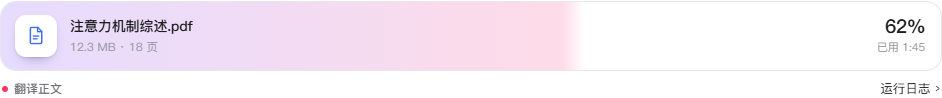
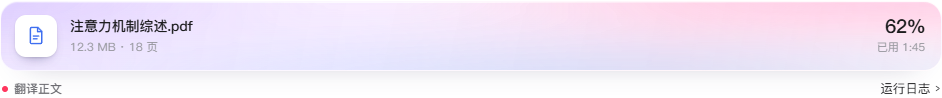
fix(progress): 进度卡片改为毛玻璃动态渐变背景，不再用填充表示进度
参考图里的卡片底色是缓慢流动的毛玻璃渐变，与进度无关；上一版做成了随进度
从左往右填充的色块。

- 移除 `.job-fill` 的宽度动画与 indeterminate 逻辑，改为 `.job-glow` 光斑层
- 卡片改用半透明背景 + backdrop-filter 毛玻璃 + 缓慢漂移的径向渐变（22s 循环）
- 进度只由右侧百分比表达；完成 / 失败只改变整卡色调（绿 / 红），与百分比无关
- 背景动画遵循 prefers-reduced-motion；浅色与深色各一套配色
- 同步 README、使用说明、CHANGELOG 与 progress.png 截图；版本号 1.1.0 → 1.1.1
- 无头浏览器校验更新为：毛玻璃层存在、动画在跑、背景宽度与进度无关

Changed region(s): [[0.4618, 0.0, 1.0, 0.7347], [0.2463, 0.0, 0.5541, 0.0306], [0.5849, 0.0, 0.6157, 0.0306]]

diff --git a/web/styles.css b/web/styles.css
@@ -856,44 +856,55 @@ input::placeholder, textarea::placeholder { color: var(--text-3); }
 /* progress -------------------------------------------------------------- */
 .progress-block { margin-bottom: 18px; }
 
-/* The job card: a soft gradient fill grows behind the file row, so progress is
-   readable at a glance without a separate bar. */
+/* The job card is frosted glass over a slowly drifting mesh gradient.  The
+   background says nothing about progress — the percentage on the right does. */
 .job-card {
-  --job-a: #e6dcff;
-  --job-b: #ffdbe7;
+  --job-a: rgba(178, 150, 255, 0.68);
+  --job-b: rgba(255, 148, 195, 0.62);
+  --job-c: rgba(150, 200, 255, 0.5);
   position: relative;
   display: grid;
   grid-template-columns: 42px minmax(0, 1fr) auto;
   align-items: center;
   gap: 13px;
   padding: 13px 16px 13px 14px;
-  border-radius: 16px;
-  border: 1px solid var(--line);
-  background: var(--card);
+  border-radius: 18px;
+  border: 1px solid rgba(255, 255, 255, 0.62);
+  background: linear-gradient(
+    102deg,
+    rgba(238, 228, 255, 0.9) 0%,
+    rgba(247, 233, 255, 0.86) 38%,
+    rgba(255, 228, 240, 0.88) 72%,
+    rgba(255, 244, 248, 0.92) 100%
+  );
+  -webkit-backdrop-filter: blur(20px) saturate(1.7);
+  backdrop-filter: blur(20px) saturate(1.7);
+  box-shadow: inset 0 1px 0 rgba(255, 255, 255, 0.75), 0 12px 30px -26px rgba(38, 28, 78, 0.55);
   overflow: hidden;
   isolation: isolate;
 }
 
-.job-fill {
+.job-glow {
   position: absolute;
-  top: 0;
-  bottom: 0;
-  left: 0;
-  width: 0%;
+  inset: -55%;
   z-index: -1;
-  background: linear-gradient(90deg, var(--job-a), var(--job-b));
-  /* a soft leading edge, so the fill reads as a gradient rather than a block */
-  -webkit-mask-image: linear-gradient(90deg, #000 0 calc(100% - 22px), transparent 100%);
-  mask-image: linear-gradient(90deg, #000 0 calc(100% - 22px), transparent 100%);
-  transition: width 0.55s cubic-bezier(0.2, 0.7, 0.2, 1), background 0.3s ease;
+  background:
+    radial-gradient(38% 44% at 18% 26%, var(--job-a), transparent 70%),
+    radial-gradient(36% 40% at 74% 22%, var(--job-b), transparent 70%),
+    radial-gradient(44% 48% at 58% 84%, var(--job-c), transparent 72%);
+  filter: blur(24px) saturate(1.2);
+  animation: job-drift 22s ease-in-out infinite alternate;
+  will-change: transform;
 }
-.job-fill.indeterminate {
-  width: 35%;
-  animation: slide 1.4s ease-in-out infinite;
+
+@keyframes job-drift {
+  0% { transform: translate3d(-2%, -1%, 0) scale(1); }
+  50% { transform: translate3d(2%, 2%, 0) scale(1.06); }
+  100% { transform: translate3d(-1%, 2%, 0) scale(1.02); }
 }
-@keyframes slide {
-  0% { transform: translateX(-120%); }
-  100% { transform: translateX(330%); }
+
+@media (prefers-reduced-motion: reduce) {
+  .job-glow { animation: none; }
 }
 
 .job-icon {
@@ -948,40 +959,63 @@ input::placeholder, textarea::placeholder { color: var(--text-3); }
   white-space: nowrap;
 }
 
-.job-card[data-state="done"] .job-fill {
-  background: linear-gradient(90deg, #cdf0dd, #d9f6e8);
+/* The tint follows the job state, not its progress. */
+.job-card[data-state="done"] {
+  --job-a: rgba(150, 235, 190, 0.55);
+  --job-b: rgba(190, 245, 215, 0.5);
+  --job-c: rgba(120, 220, 175, 0.4);
 }
-.job-card[data-state="failed"] .job-fill {
-  background: linear-gradient(90deg, #ffd9d9, #ffc9d1);
+.job-card[data-state="failed"] {
+  --job-a: rgba(255, 170, 170, 0.55);
+  --job-b: rgba(255, 150, 175, 0.5);
+  --job-c: rgba(255, 190, 190, 0.45);
 }
-.job-card[data-state="cancelled"] .job-fill {
-  background: linear-gradient(90deg, var(--line), var(--line));
+.job-card[data-state="cancelled"] {
+  --job-a: rgba(205, 205, 215, 0.45);
+  --job-b: rgba(220, 220, 228, 0.4);
+  --job-c: rgba(200, 200, 210, 0.35);
 }
 
 @media (prefers-color-scheme: dark) {
   :root:not([data-theme="light"]) .job-card {
-    --job-a: rgba(126, 104, 255, 0.3);
-    --job-b: rgba(255, 105, 150, 0.22);
+    --job-a: rgba(132, 108, 255, 0.46);
+    --job-b: rgba(255, 108, 155, 0.38);
+    --job-c: rgba(92, 156, 255, 0.34);
+    background: rgba(34, 31, 50, 0.55);
+    border-color: rgba(255, 255, 255, 0.1);
+    box-shadow: inset 0 1px 0 rgba(255, 255, 255, 0.08);
+  }
+  :root:not([data-theme="light"]) .job-card[data-state="done"] {
+    --job-a: rgba(60, 200, 140, 0.34);
+    --job-b: rgba(70, 215, 160, 0.26);
+    --job-c: rgba(50, 180, 130, 0.22);
+  }
+  :root:not([data-theme="light"]) .job-card[data-state="failed"] {
+    --job-a: rgba(255, 90, 90, 0.32);
+    --job-b: rgba(255, 90, 120, 0.26);
+    --job-c: rgba(255, 120, 110, 0.2);
   }
   :root:not([data-theme="light"]) .job-icon { background: #23232c; color: #8ab0ff; }
-  :root:not([data-theme="light"]) .job-card[data-state="done"] .job-fill {
-    background: linear-gradient(90deg, rgba(60, 200, 140, 0.32), rgba(60, 200, 140, 0.2));
-  }
-  :root:not([data-theme="light"]) .job-card[data-state="failed"] .job-fill {
-    background: linear-gradient(90deg, rgba(255, 90, 90, 0.32), rgba(255, 90, 120, 0.22));
-  }
 }
 :root[data-theme="dark"] .job-card {
-  --job-a: rgba(126, 104, 255, 0.3);
-  --job-b: rgba(255, 105, 150, 0.22);
+  --job-a: rgba(132, 108, 255, 0.46);
+  --job-b: rgba(255, 108, 155, 0.38);
+  --job-c: rgba(92, 156, 255, 0.34);
+  background: rgba(34, 31, 50, 0.55);
+  border-color: rgba(255, 255, 255, 0.1);
+  box-shadow: inset 0 1px 0 rgba(255, 255, 255, 0.08);
+}
+:root[data-theme="dark"] .job-card[data-state="done"] {
+  --job-a: rgba(60, 200, 140, 0.34);
+  --job-b: rgba(70, 215, 160, 0.26);
+  --job-c: rgba(50, 180, 130, 0.22);
+}
+:root[data-theme="dark"] .job-card[data-state="failed"] {
+  --job-a: rgba(255, 90, 90, 0.32);
+  --job-b: rgba(255, 90, 120, 0.26);
+  --job-c: rgba(255, 120, 110, 0.2);
 }
 :root[data-theme="dark"] .job-icon { background: #23232c; color: #8ab0ff; }
-:root[data-theme="dark"] .job-card[data-state="done"] .job-fill {
-  background: linear-gradient(90deg, rgba(60, 200, 140, 0.32), rgba(60, 200, 140, 0.2));
-}
-:root[data-theme="dark"] .job-card[data-state="failed"] .job-fill {
-  background: linear-gradient(90deg, rgba(255, 90, 90, 0.32), rgba(255, 90, 120, 0.22));
-}
 
 .job-foot {
   display: flex;

diff --git a/web/app.js b/web/app.js
@@ -75,7 +75,6 @@
     jobNote: $("#job-note"),
     stage: $("#stage"),
     percent: $("#percent"),
-    barFill: $("#bar-fill"),
     btnLog: $("#btn-log"),
     log: $("#log"),
     summary: $("#summary"),
@@ -713,8 +712,6 @@
     const progress = Number(job.progress) || 0;
     el.stage.textContent = job.stage || "运行中";
     el.percent.textContent = `${Math.round(progress)}%`;
-    el.barFill.classList.toggle("indeterminate", progress <= 0 && job.status === "running");
-    el.barFill.style.width = progress > 0 ? `${Math.min(progress, 100)}%` : "";
     el.jobCard.dataset.state =
       job.status === "succeeded"
         ? "done"
@@ -885,8 +882,6 @@
       el.usageLine.hidden = true;
       el.resultCard.hidden = true;
       el.jobCard.dataset.state = "running";
-      el.barFill.style.width = "0%";
-      el.barFill.classList.add("indeterminate");
       el.progressBlock.hidden = false;
       setRunning(true);
       poll();
@@ -916,12 +911,10 @@
     clearTimeout(state.timer);
     state.timer = null;
     setRunning(false);
-    el.barFill.classList.remove("indeterminate");
     renderUsage(job);
     renderJobCard(job);
     if (job.status === "succeeded") {
       el.jobCard.dataset.state = "done";
-      el.barFill.style.width = "100%";
       el.percent.textContent = "100%";
       el.stage.textContent = "翻译完成";
       toast("翻译完成", "good");

diff --git a/web/index.html b/web/index.html
@@ -339,7 +339,7 @@
       <section class="card action-card">
         <div class="progress-block" id="progress-block" hidden>
           <div class="job-card" id="job-card" data-state="running">
-            <div class="job-fill" id="bar-fill"></div>
+            <div class="job-glow" aria-hidden="true"></div>
             <div class="job-icon" aria-hidden="true">
               <svg viewBox="0 0 24 24" width="21" height="21" fill="none" stroke="currentColor"
                    stroke-width="1.6" stroke-linejoin="round" stroke-linecap="round">

diff --git a/app.py b/app.py
@@ -219,7 +219,7 @@ def bootstrap():
     return _json(
         {
             "app": "BabelDOC Studio",
-            "version": "1.1.0",
+            "version": "1.1.1",
             "providers": [
                 {
                     "id": item["id"],

diff --git a/README.md b/README.md
@@ -19,7 +19,8 @@
 
 ![上传后的工作区](docs/screenshots/studio-work.png)
 
-开始翻译后，进度以一张文件卡片呈现：左侧文件名与大小，右侧百分比与已用时间，卡片底色随进度从左向右填充：
+开始翻译后，进度以一张文件卡片呈现：左侧文件名与大小，右侧百分比与已用时间；
+卡片背景是缓慢流动的毛玻璃渐变（只是装饰，与进度无关）：
 
 ![翻译进度](docs/screenshots/progress.png)
 
@@ -61,7 +62,8 @@
   点卡片上的「归类」勾选即可把论文放进合集；顶部可按合集筛选、查看「未分类」，
   合集可重命名 / 删除（只解除归类，不删文件）；论文重命名后合集归属仍保留。
 - **翻译进度卡片**：翻译中显示一张文件卡片 —— 文件图标、文件名、大小 / 页数，
-  右侧是百分比与已用时间，卡片底色从左向右填充；完成时转为绿色「用时」，失败时转红。
+  右侧是百分比与已用时间；卡片是毛玻璃质感的动态渐变背景，颜色只跟状态有关：
+  完成转绿并显示「用时」，失败转红。
 - **内置阅读器**：PDF.js 本地渲染，页面连续滚动（一页接一页，读到页尾自然接上下一页），
   缩略图导航、缩放、适应宽度 / 适应页面，完全离线；Ctrl + 滚轮缩放，方向键整页跳转，
   结果卡片一键打开，阅读时不必跳出应用；再次打开同一篇会自动回到上次读到的页码。
@@ -223,7 +225,8 @@ BabelDOC 原始产物形如 `论文.zh.mono.pdf` / `论文.zh.dual.pdf`，本工
   论文删除后自动移出合集，均有离线测试（`tests/test_library.py`）；结果库页面在无头浏览器里
   跑通「建合集 → 归类 → 筛选 → 改名 → 删合集」全流程。
 - 进度卡片：用模拟任务快照在无头浏览器里校验文件名 / 大小 / 页数、百分比、已用时间、
-  完成态（绿色 + 用时）与失败态，浅色 / 深色两套主题都检查过。
+  完成态（绿色 + 用时）与失败态；并校验背景毛玻璃层（`backdrop-filter`）、
+  渐变动画（`job-drift`）以及「背景宽度与进度无关」，浅色 / 深色两套主题都检查过。
 - 图标：`/favicon.svg` 与 `/favicon.ico` 分别返回 781 B 的矢量图标与 31 KB 的 ICO，
   应用窗口与任务栏不再退回默认地球图标。
 

diff --git a/CHANGELOG.md b/CHANGELOG.md
@@ -1,5 +1,12 @@
 # 更新日志
 
+## v1.1.1 — 2026-11-05
+
+- 修正翻译进度卡片：背景改为缓慢流动的毛玻璃渐变（纯装饰，与进度无关），
+  不再用「从左往右填充」表达进度；进度只由右侧百分比表示，
+  完成 / 失败仍通过整卡色调（绿 / 红）区分。
+- 背景动画遵循系统的「减少动态效果」设置；浅色与深色各有一套配色。
+
 ## v1.1.0 — 2026-11-05
 
 本次迭代集中在「阅读、整理、反馈」三块。
@@ -31,8 +38,9 @@
 
 ### 翻译进度
 
-- **新的进度卡片**：渐变填充卡片 + 文件图标 + 文件名 / 大小 / 页数，
-  右侧显示百分比与已用时间；完成后整卡转绿显示「用时」，失败转红。
+- **新的进度卡片**：毛玻璃渐变卡片（背景缓慢流动，只做装饰、与进度无关）
+  + 文件图标 + 文件名 / 大小 / 页数，右侧显示百分比与已用时间；
+  完成后整卡转绿显示「用时」，失败转红。
 
 ### 修复
 
